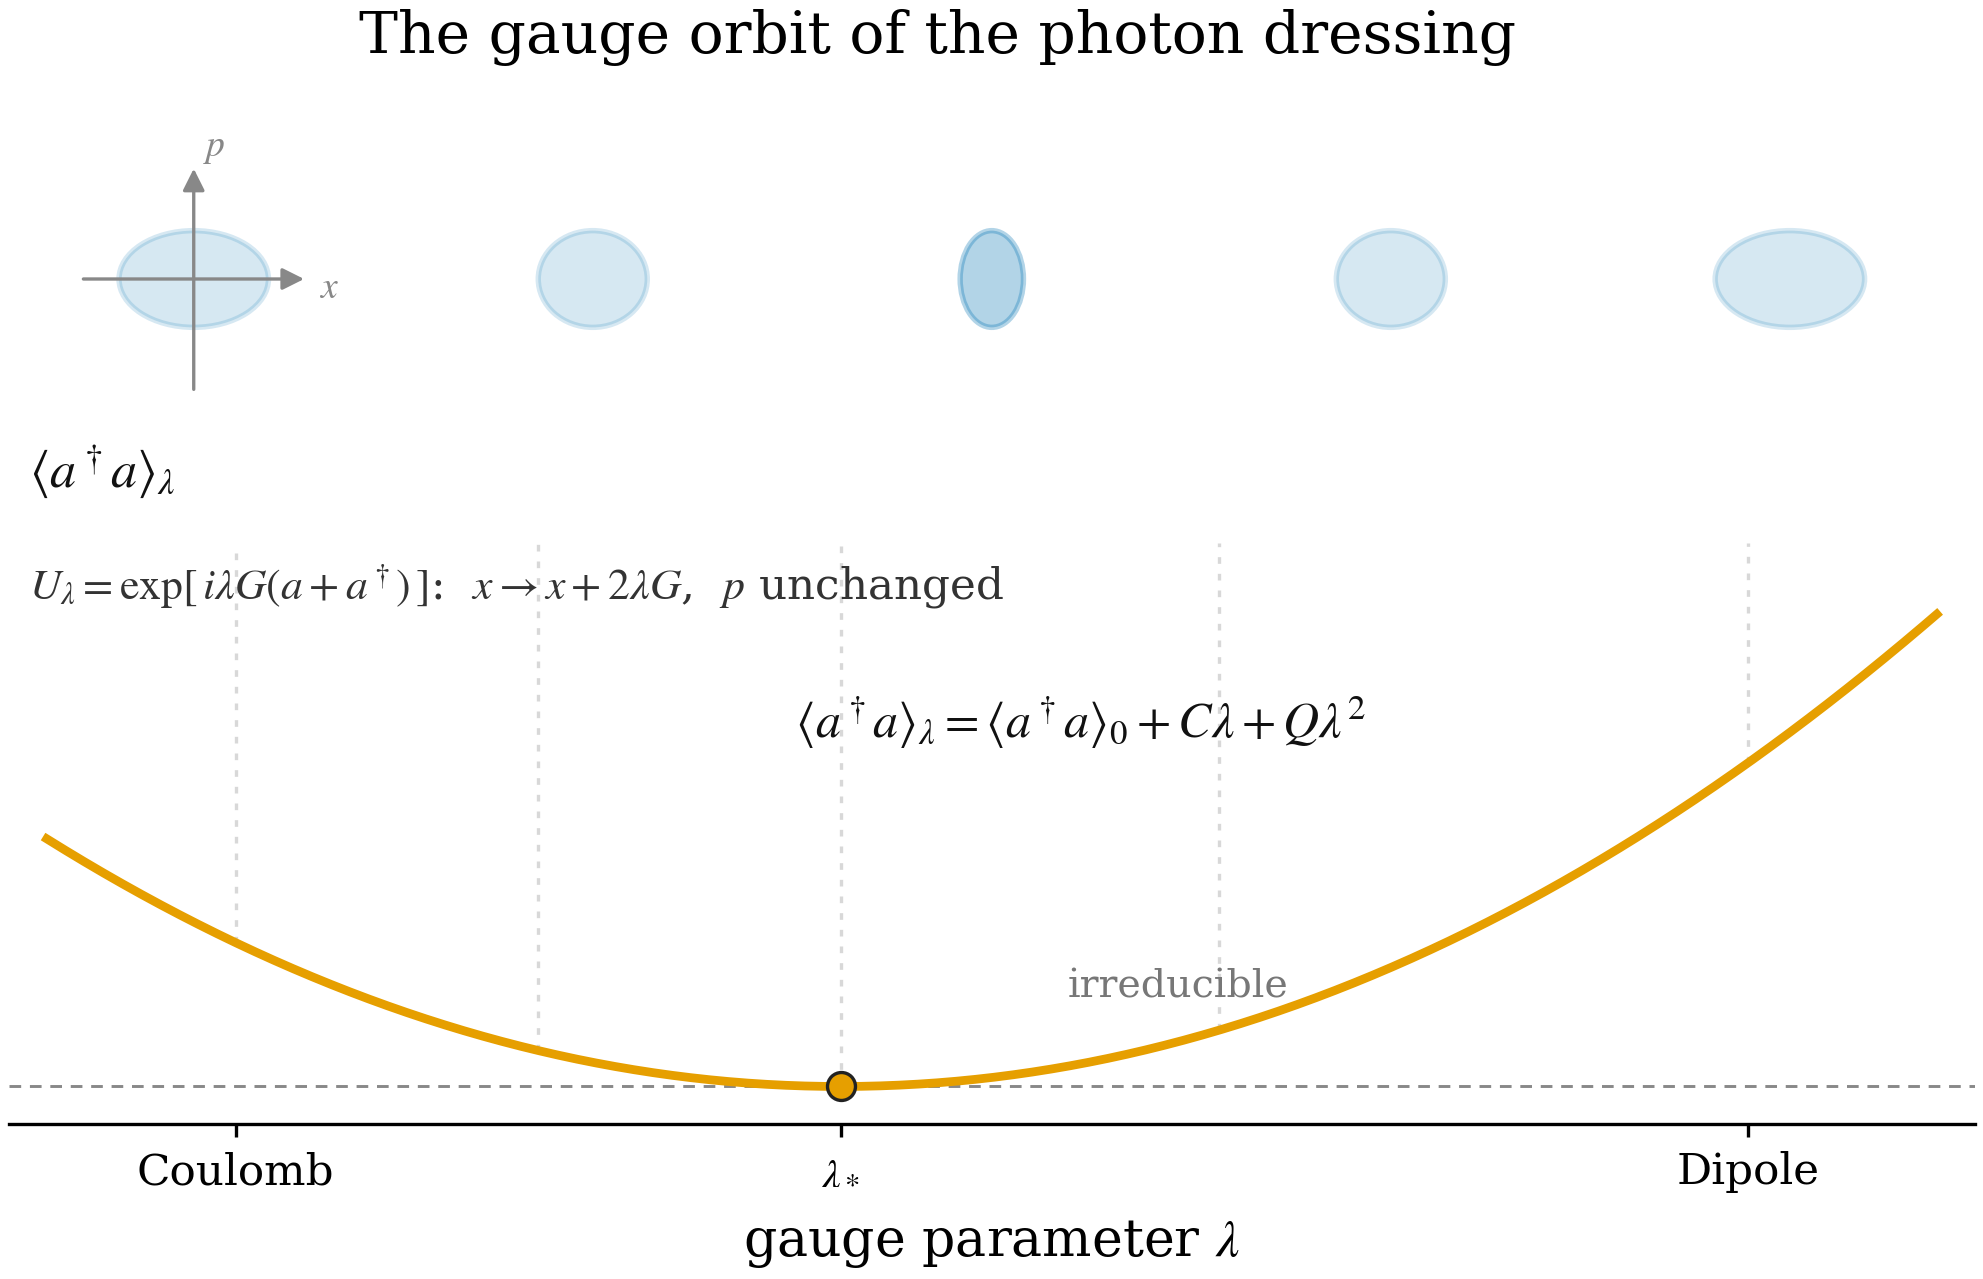
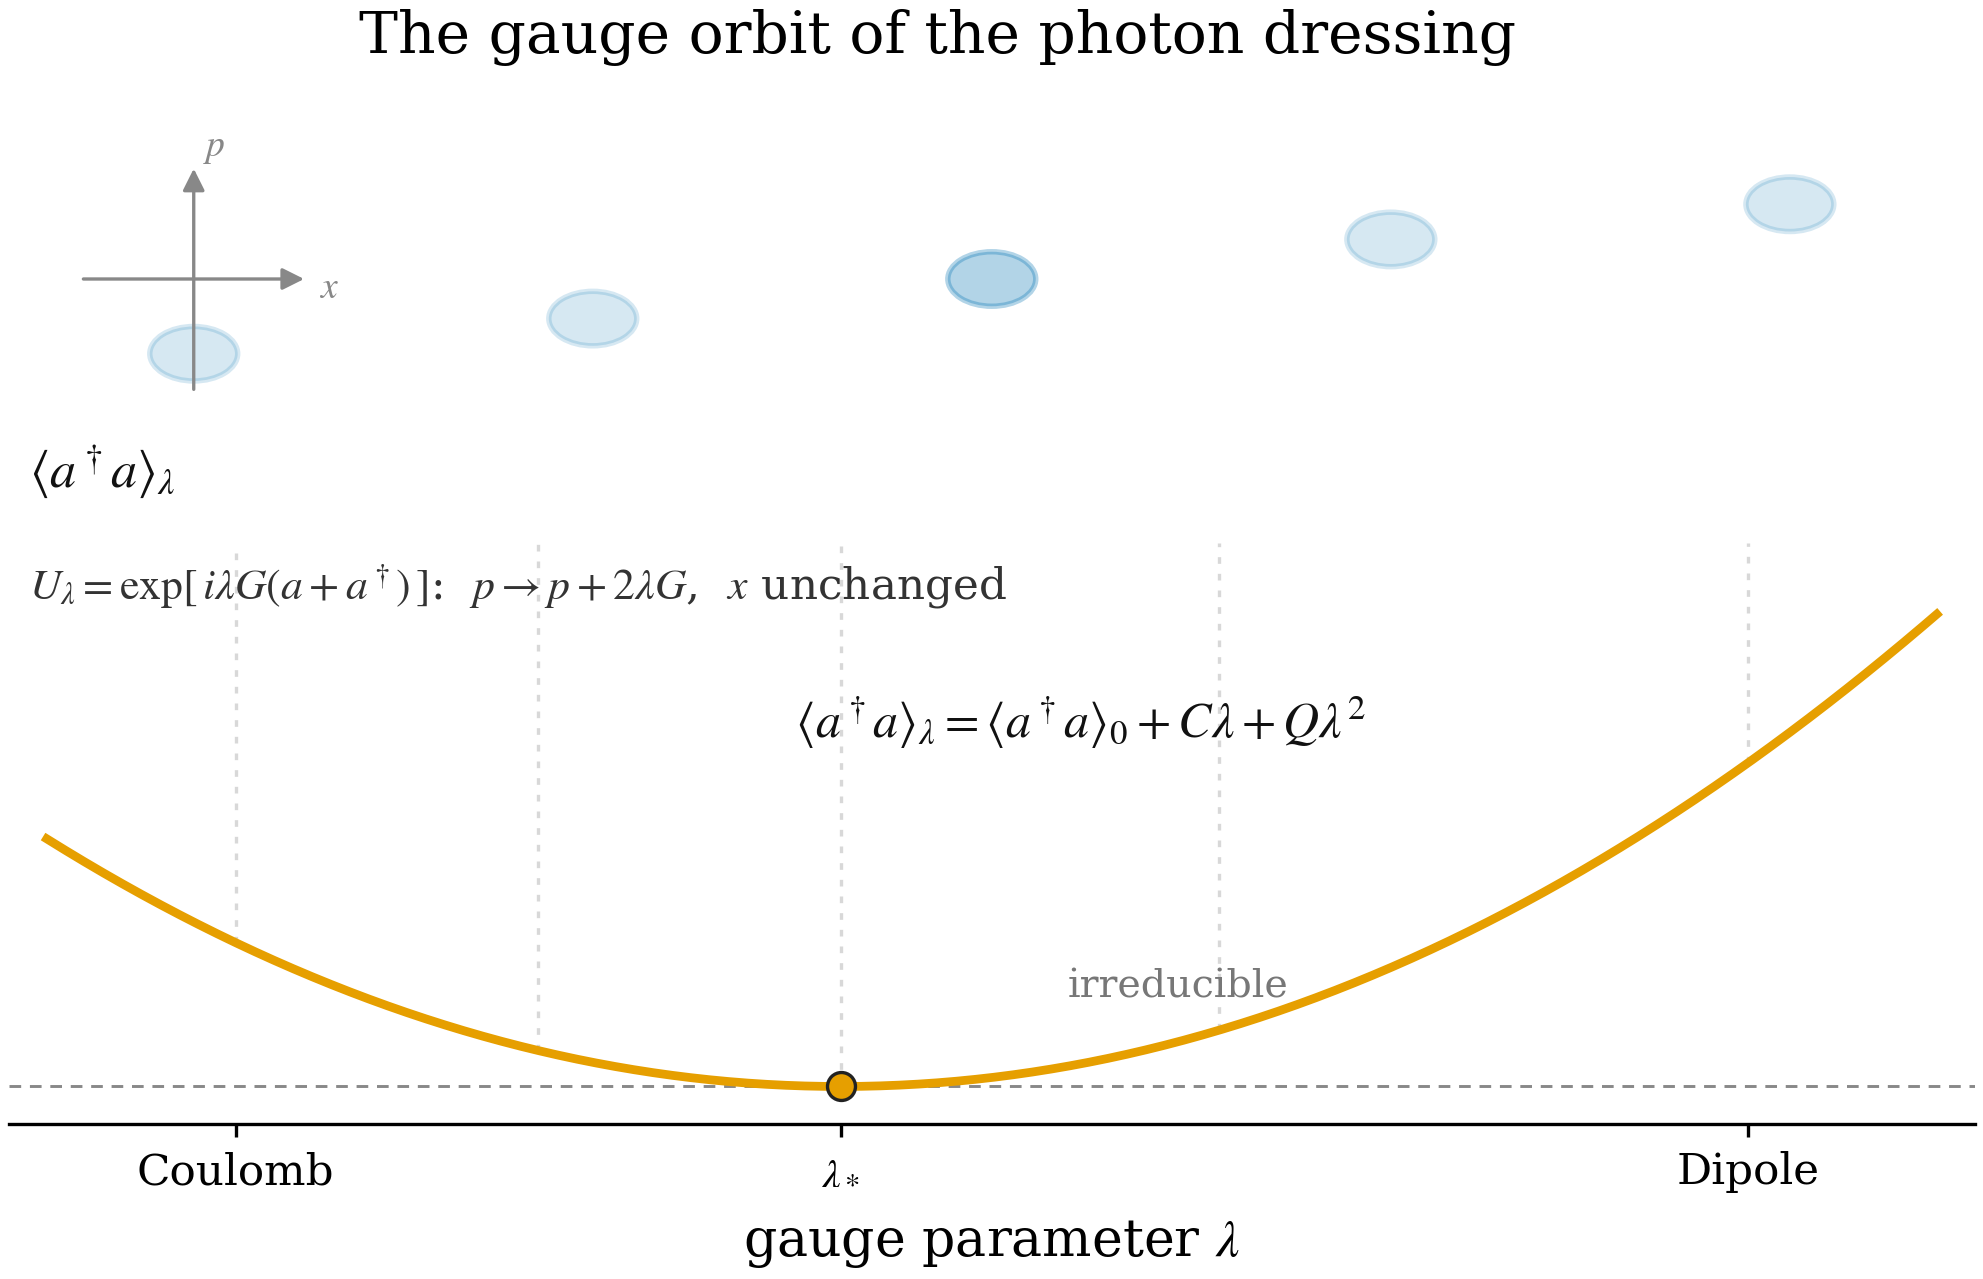
Fix Fig. 1: gauge unitary displaces p, not x (was depicted as a squeeze)
U_lambda = exp[i*lambda*G*(a+ad)] leaves x=a+ad invariant and displaces
p=i(ad-a) by 2*lambda*G (verified analytically via BCH and numerically
on a large Fock cutoff). The previous version had the quadrature roles
reversed and showed the insets narrowing in width (a squeeze) instead
of a fixed-shape ellipse translating along p (a matter-conditioned
displacement). Insets and equation label corrected accordingly.

diff --git a/src/make_fig1.py b/src/make_fig1.py
@@ -19,13 +19,15 @@ fig = plt.figure(figsize=(7.2,4.4))
 gs = GridSpec(2, 5, height_ratios=[0.9,2.4], hspace=0.02, wspace=0.08,
               left=0.07, right=0.98, top=0.88, bottom=0.14)
 
-# ---- five phase-space insets (Coulomb .. lambda* .. Dipole) ----
-widths = [0.85, 0.62, 0.36, 0.62, 0.85]
-for i, w in enumerate(widths):
+# ---- five phase-space insets (Coulomb .. lambda* .. Dipole): U_lambda leaves x fixed and
+# displaces p by 2*lambda*G (matter-conditioned), so the ellipse translates vertically with
+# FIXED shape -- it is a displacement, not a squeeze. ----
+p_centers = [-0.85, -0.45, 0.0, 0.45, 0.85]
+for i, pc in enumerate(p_centers):
     axe = fig.add_subplot(gs[0, i])
     axe.set_xlim(-1.5,1.5); axe.set_ylim(-1.5,1.5); axe.set_aspect("equal"); axe.axis("off")
     alpha = 0.30 if i==2 else 0.16
-    axe.add_patch(Ellipse((0,0), width=2*w, height=1.1, facecolor=CB["blue"], alpha=alpha,
+    axe.add_patch(Ellipse((0,pc), width=1.0, height=0.62, facecolor=CB["blue"], alpha=alpha,
                            edgecolor=CB["blue"], linewidth=1.3))
     if i==0:
         axe.annotate("", xy=(1.35,0), xytext=(-1.35,0), clip_on=False,
@@ -59,7 +61,7 @@ ax.set_xlabel(r"gauge parameter $\lambda$", fontsize=12.5, labelpad=6)
 
 ax.text(0.01, 0.97, r"$\langle a^\dagger a\rangle_\lambda$", transform=ax.transAxes,
         fontsize=12.5, color="#111111", va="top", ha="left")
-ax.text(0.01, 0.80, r"$U_\lambda=\exp[\,i\lambda G(a+a^\dagger)\,]$:  $x\to x+2\lambda G$,  $p$ unchanged",
+ax.text(0.01, 0.80, r"$U_\lambda=\exp[\,i\lambda G(a+a^\dagger)\,]$:  $p\to p+2\lambda G$,  $x$ unchanged",
         transform=ax.transAxes, fontsize=10.5, color="#333333", va="top", ha="left")
 ax.text(0.40, 0.55, r"$\langle a^\dagger a\rangle_\lambda=\langle a^\dagger a\rangle_0+C\lambda+Q\lambda^2$",
         transform=ax.transAxes, fontsize=12, color="#111111")